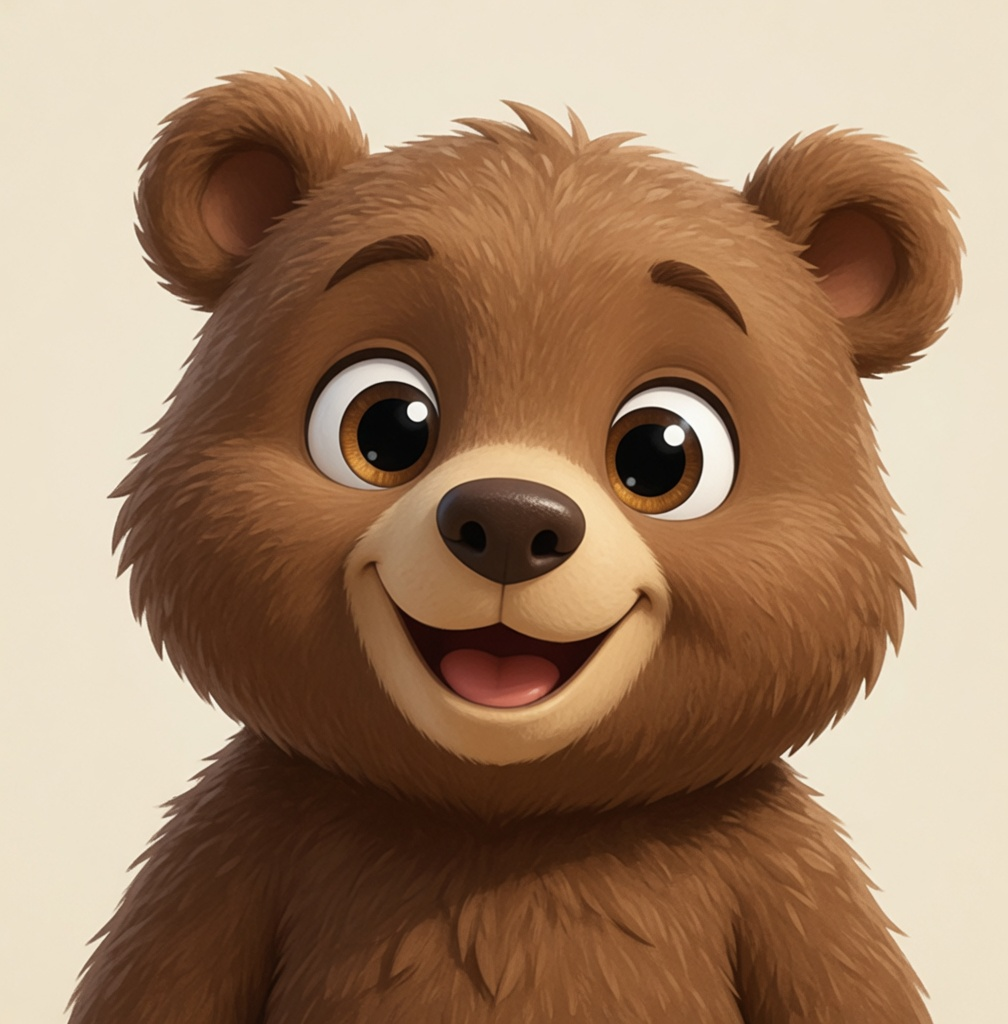
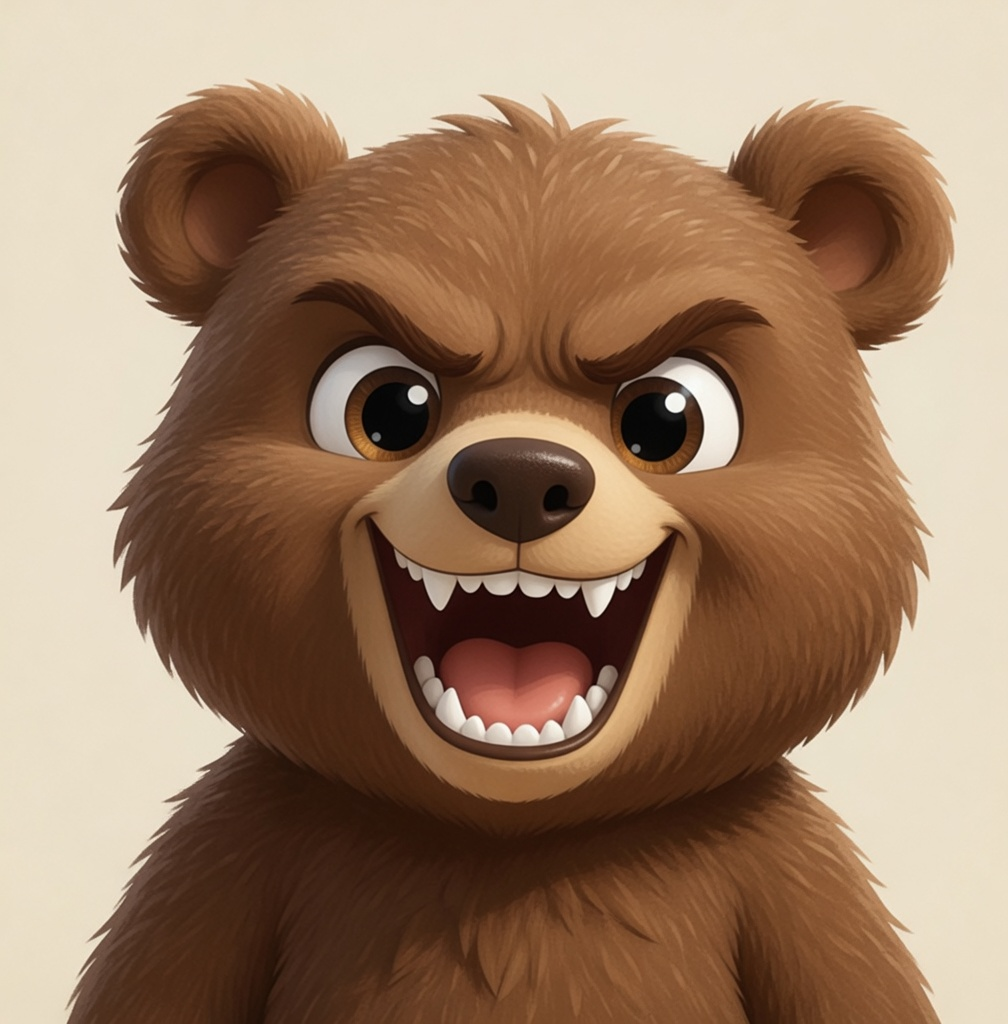
Use the slingshot on growling lion and bear

diff --git a/index.html b/index.html
@@ -188,17 +188,17 @@
       },
       lion:{
         target:"assets/lion-face.jpg", targetName:"the lion",
-        weapon:null, projectile:"assets/cane.jpg", cane:true,
-        hint:"Drag the cane back, then let go at the lion!",
+        weapon:"assets/slingshot.jpg", projectile:null, cane:false,
+        hint:"Drag the stone back, then let go at the lion!",
         win:"You saved the sheep from the lion! God helped David! 🎉",
-        btn:"🎯 Cane!"
+        btn:"🎯 Sling!"
       },
       bear:{
         target:"assets/bear-face.jpg", targetName:"the bear",
-        weapon:null, projectile:"assets/cane.jpg", cane:true,
-        hint:"Drag the cane back, then let go at the bear!",
+        weapon:"assets/slingshot.jpg", projectile:null, cane:false,
+        hint:"Drag the stone back, then let go at the bear!",
         win:"You saved the sheep from the bear! God helped David! 🎉",
-        btn:"🎯 Cane!"
+        btn:"🎯 Sling!"
       }
     };
 
